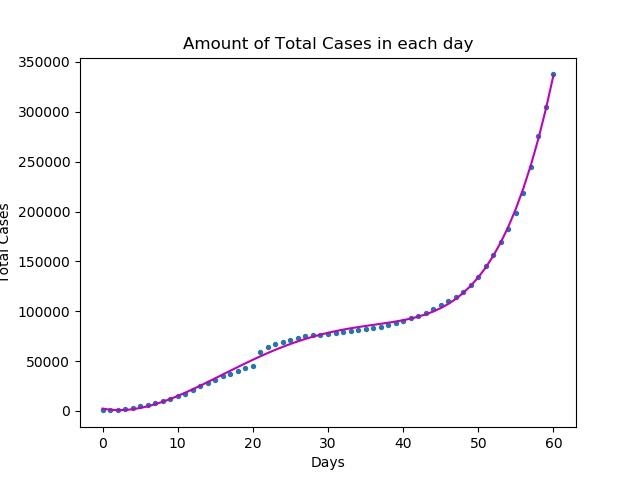
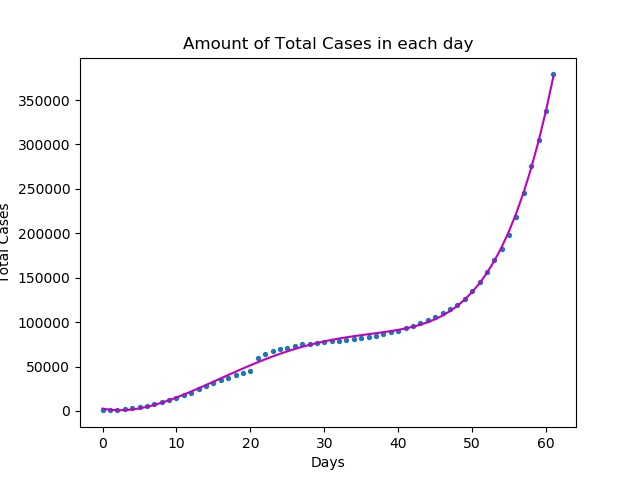
Update for the 24/03/2020

diff --git a/README.md b/README.md
@@ -1,6 +1,27 @@
 # COVID-19-Doomsday-Predictions
 COVID-19, the disease that can result from the coronavirus worldwide new pandemic, is spreading across the globe. While it has a "lower" fatality rate than the last four aforementioned diseases above, it has spread to many more countries and has infected thousands more people. We try to predict for the next days how many new cases and how many victims the disease will affect.
 
+
+
+Our predictions for 24/03/2020 : 
+
+The predictions for Total Cases in the following 1 days is:
+419859
+
+The predictions for Total Active Cases in the following 1 days is:
+292093
+
+The predictions for Total Cured Cases in the following 1 days is:
+108171
+
+The predictions for Total Deaths in the following 1 days is:
+18646
+
+The predictions for Total Critical Cases in the following 1 days is:
+14062
+
+![image-20200324102044718](C:\Users\HAMZA\AppData\Roaming\Typora\typora-user-images\image-20200324102044718.png)
+
 Our predictions for 23/03/2020 : 
 
 The predictions for Total Cases in the following 1 days is:
